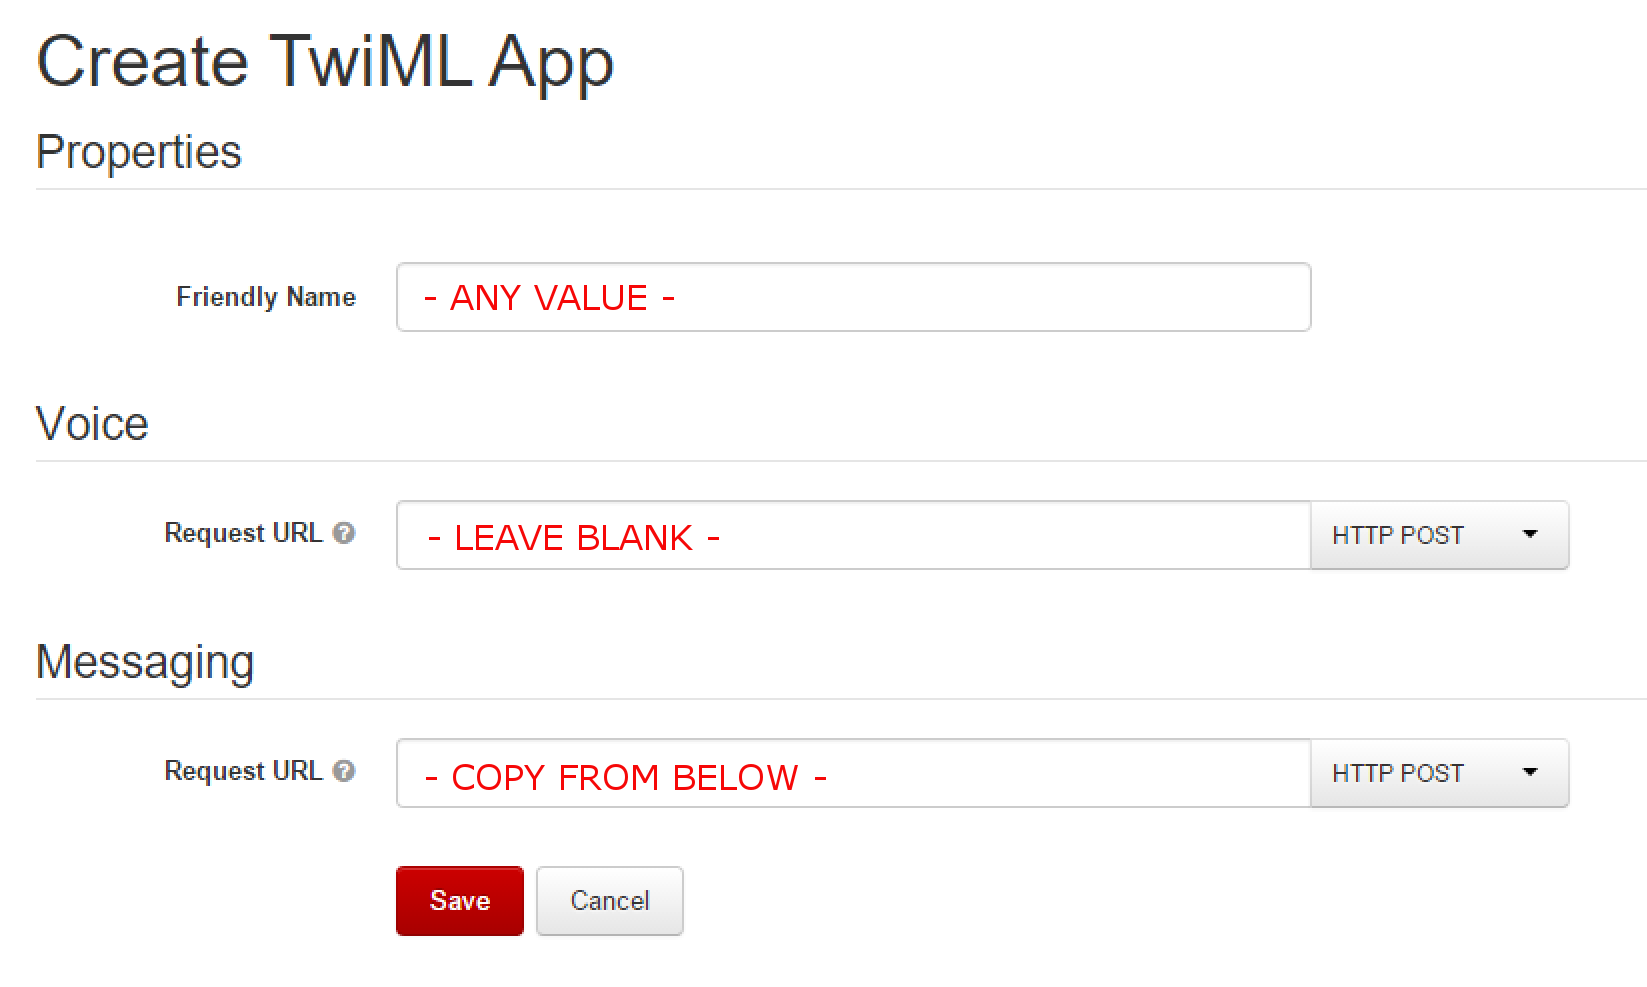
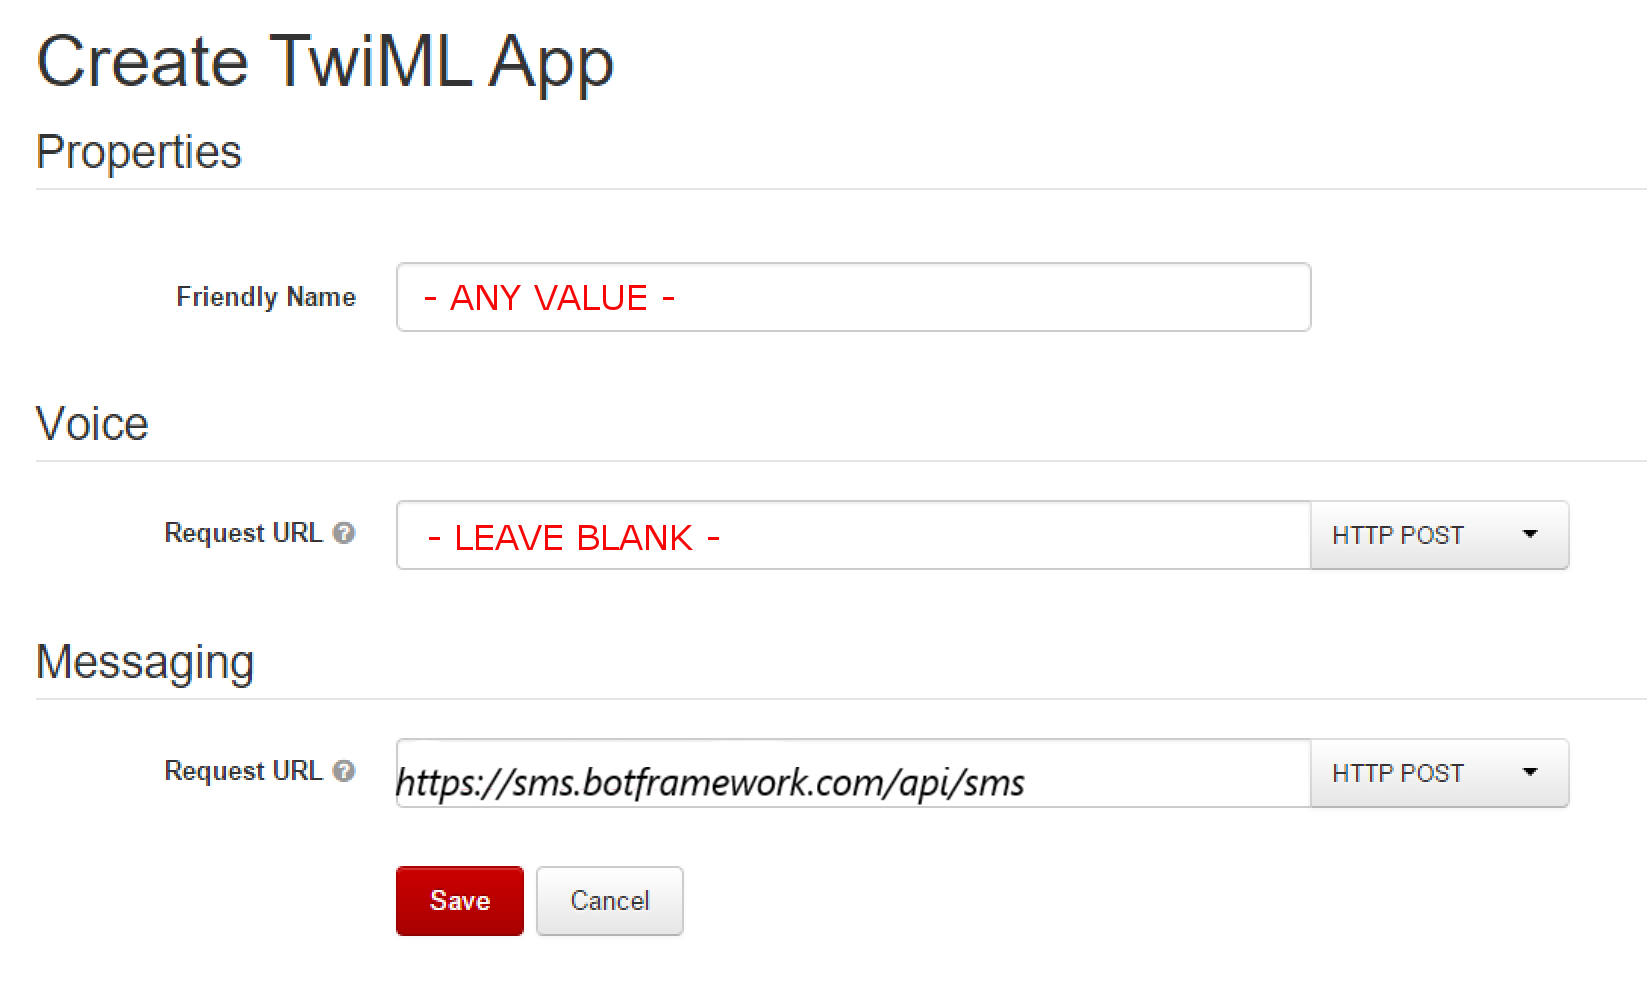
editing Twilio file AGAIN and readding screenshot

Changed region(s): [[0.2477, 0.7599, 0.6193, 0.8207]]

diff --git a/articles/thirdparty-channels/channel-twilio.md b/articles/thirdparty-channels/channel-twilio.md
@@ -24,8 +24,6 @@ If you don't have a Twilio account, [create a new account](https://www.twilio.co
 
 ![Create app](~/media/channels/twi-StepTwiml.png)
 
- Under Messaging, the Request URL should be **`https://sms.botframework.com/api/sms`**.
-
 ## Select or add a phone number
 
 [Select or add a phone number](https://www.twilio.com/user/account/phone-numbers/incoming). Click  the number to add it to the TwiML application you created.
